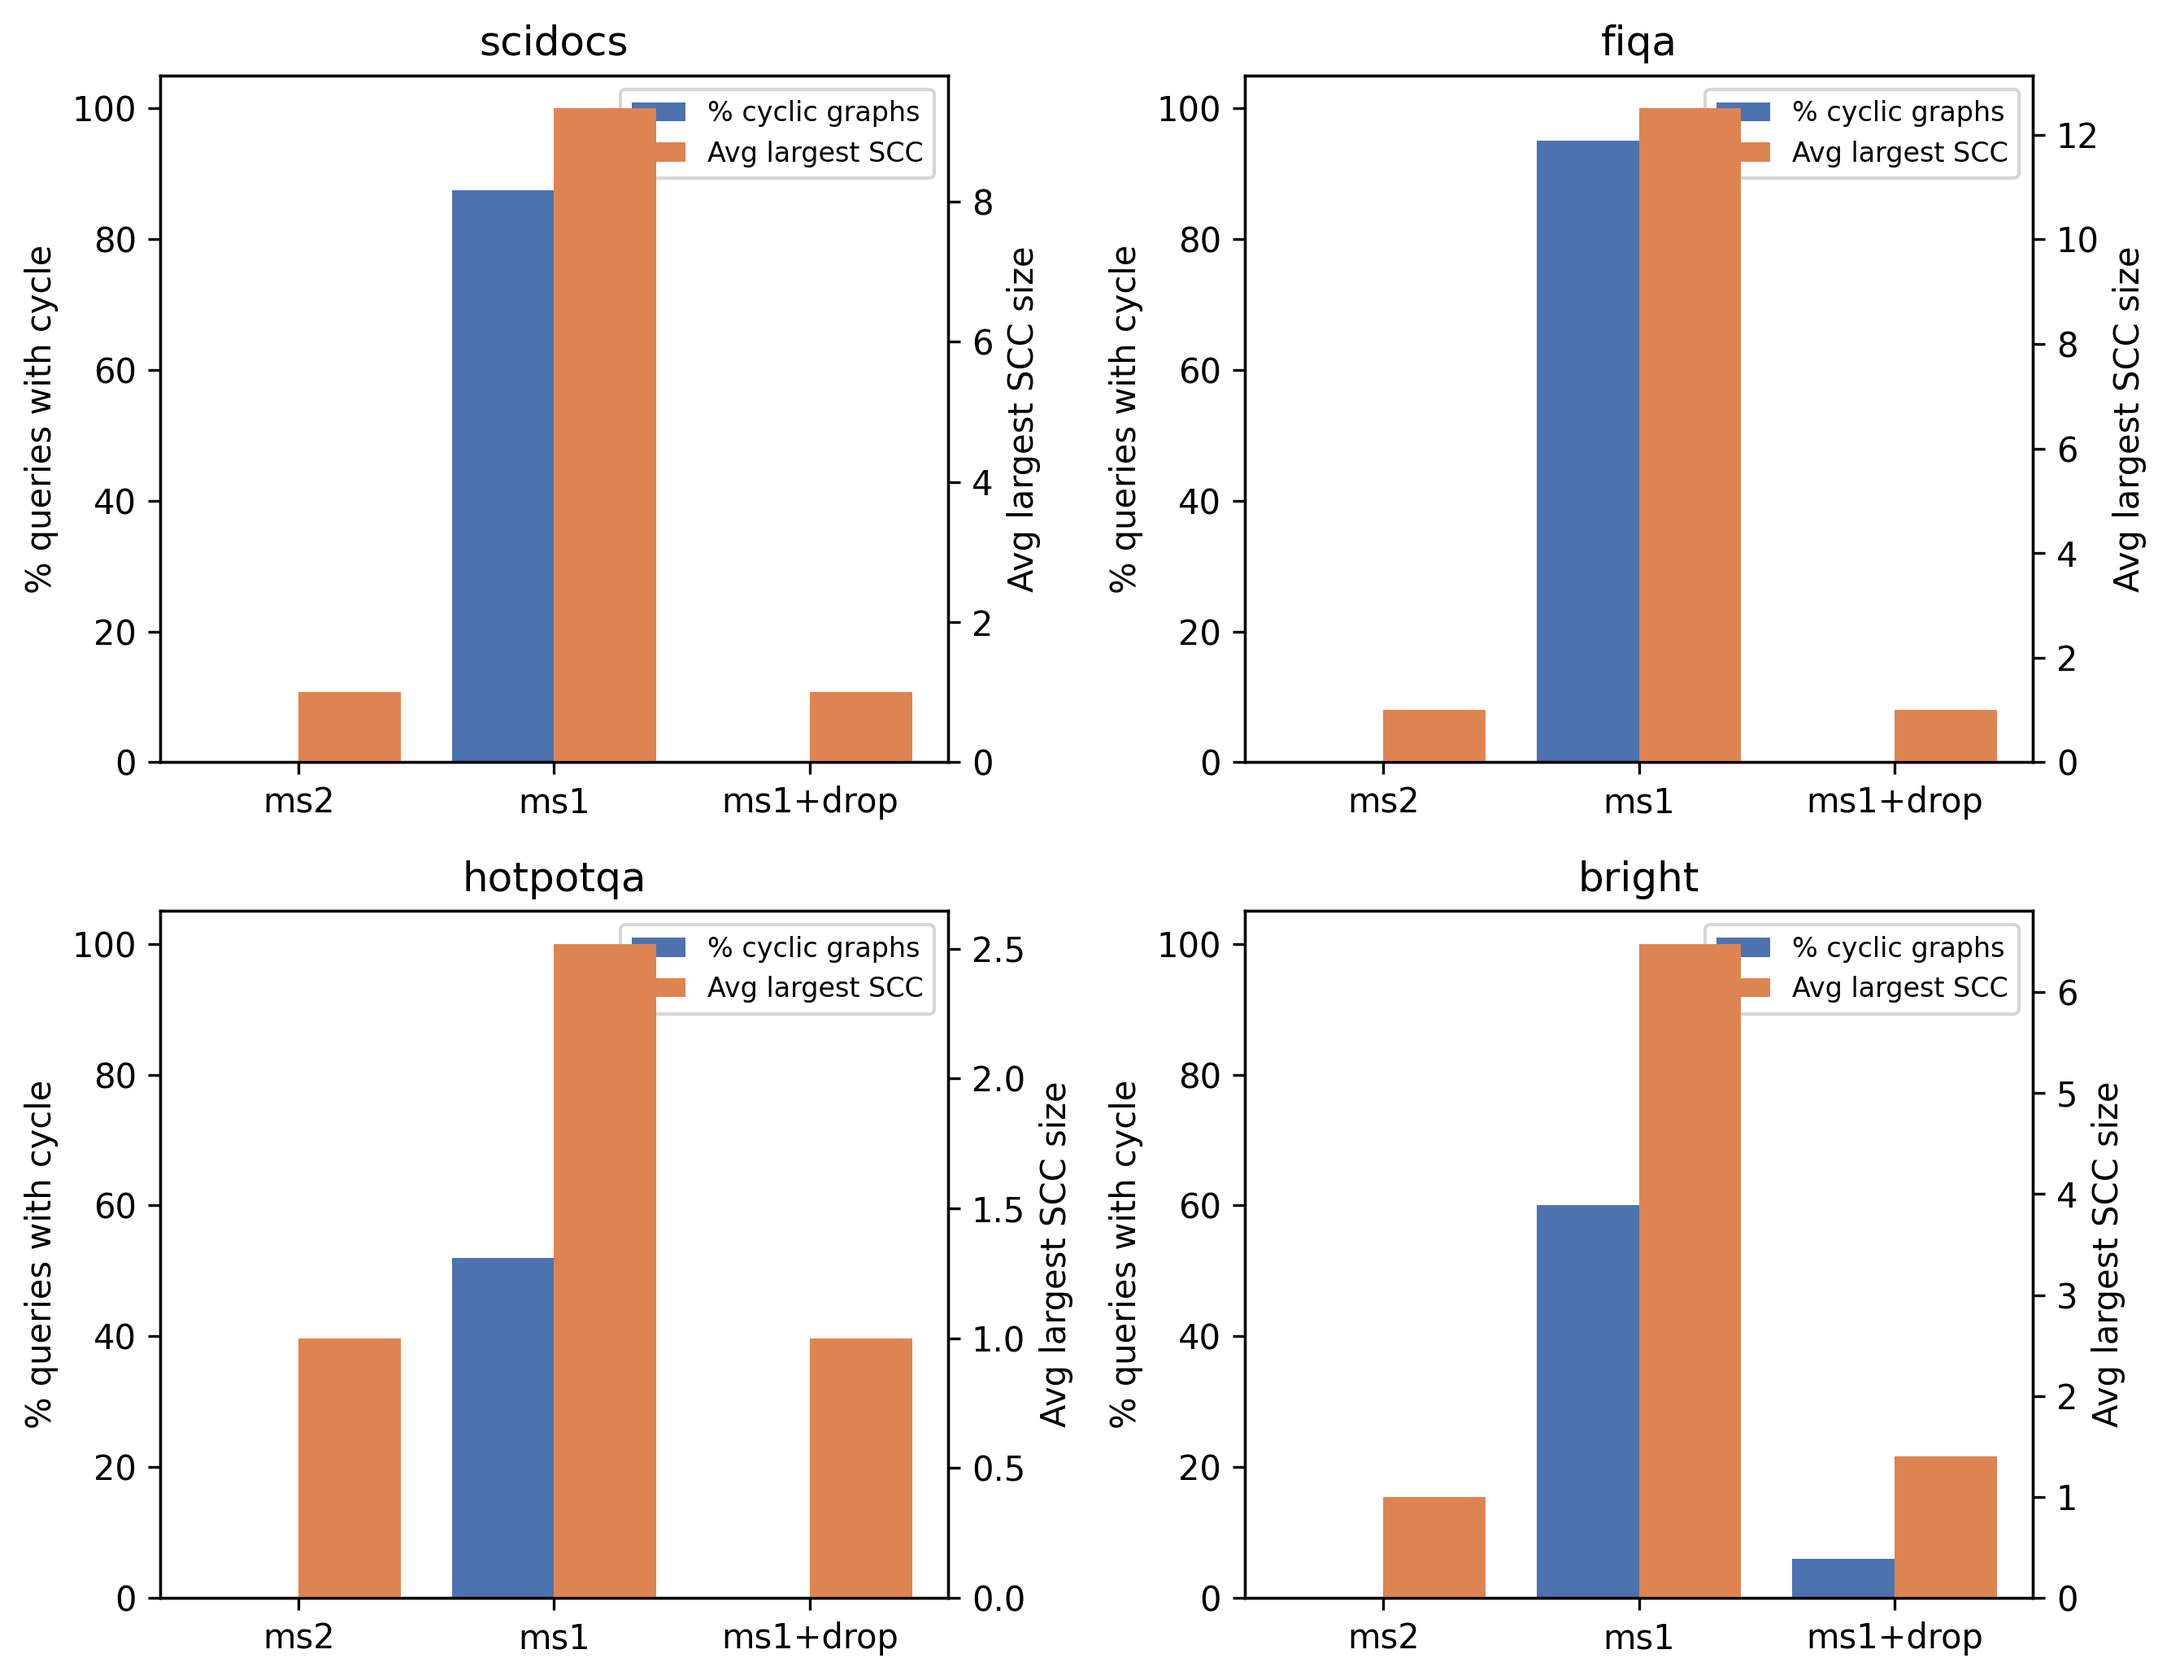
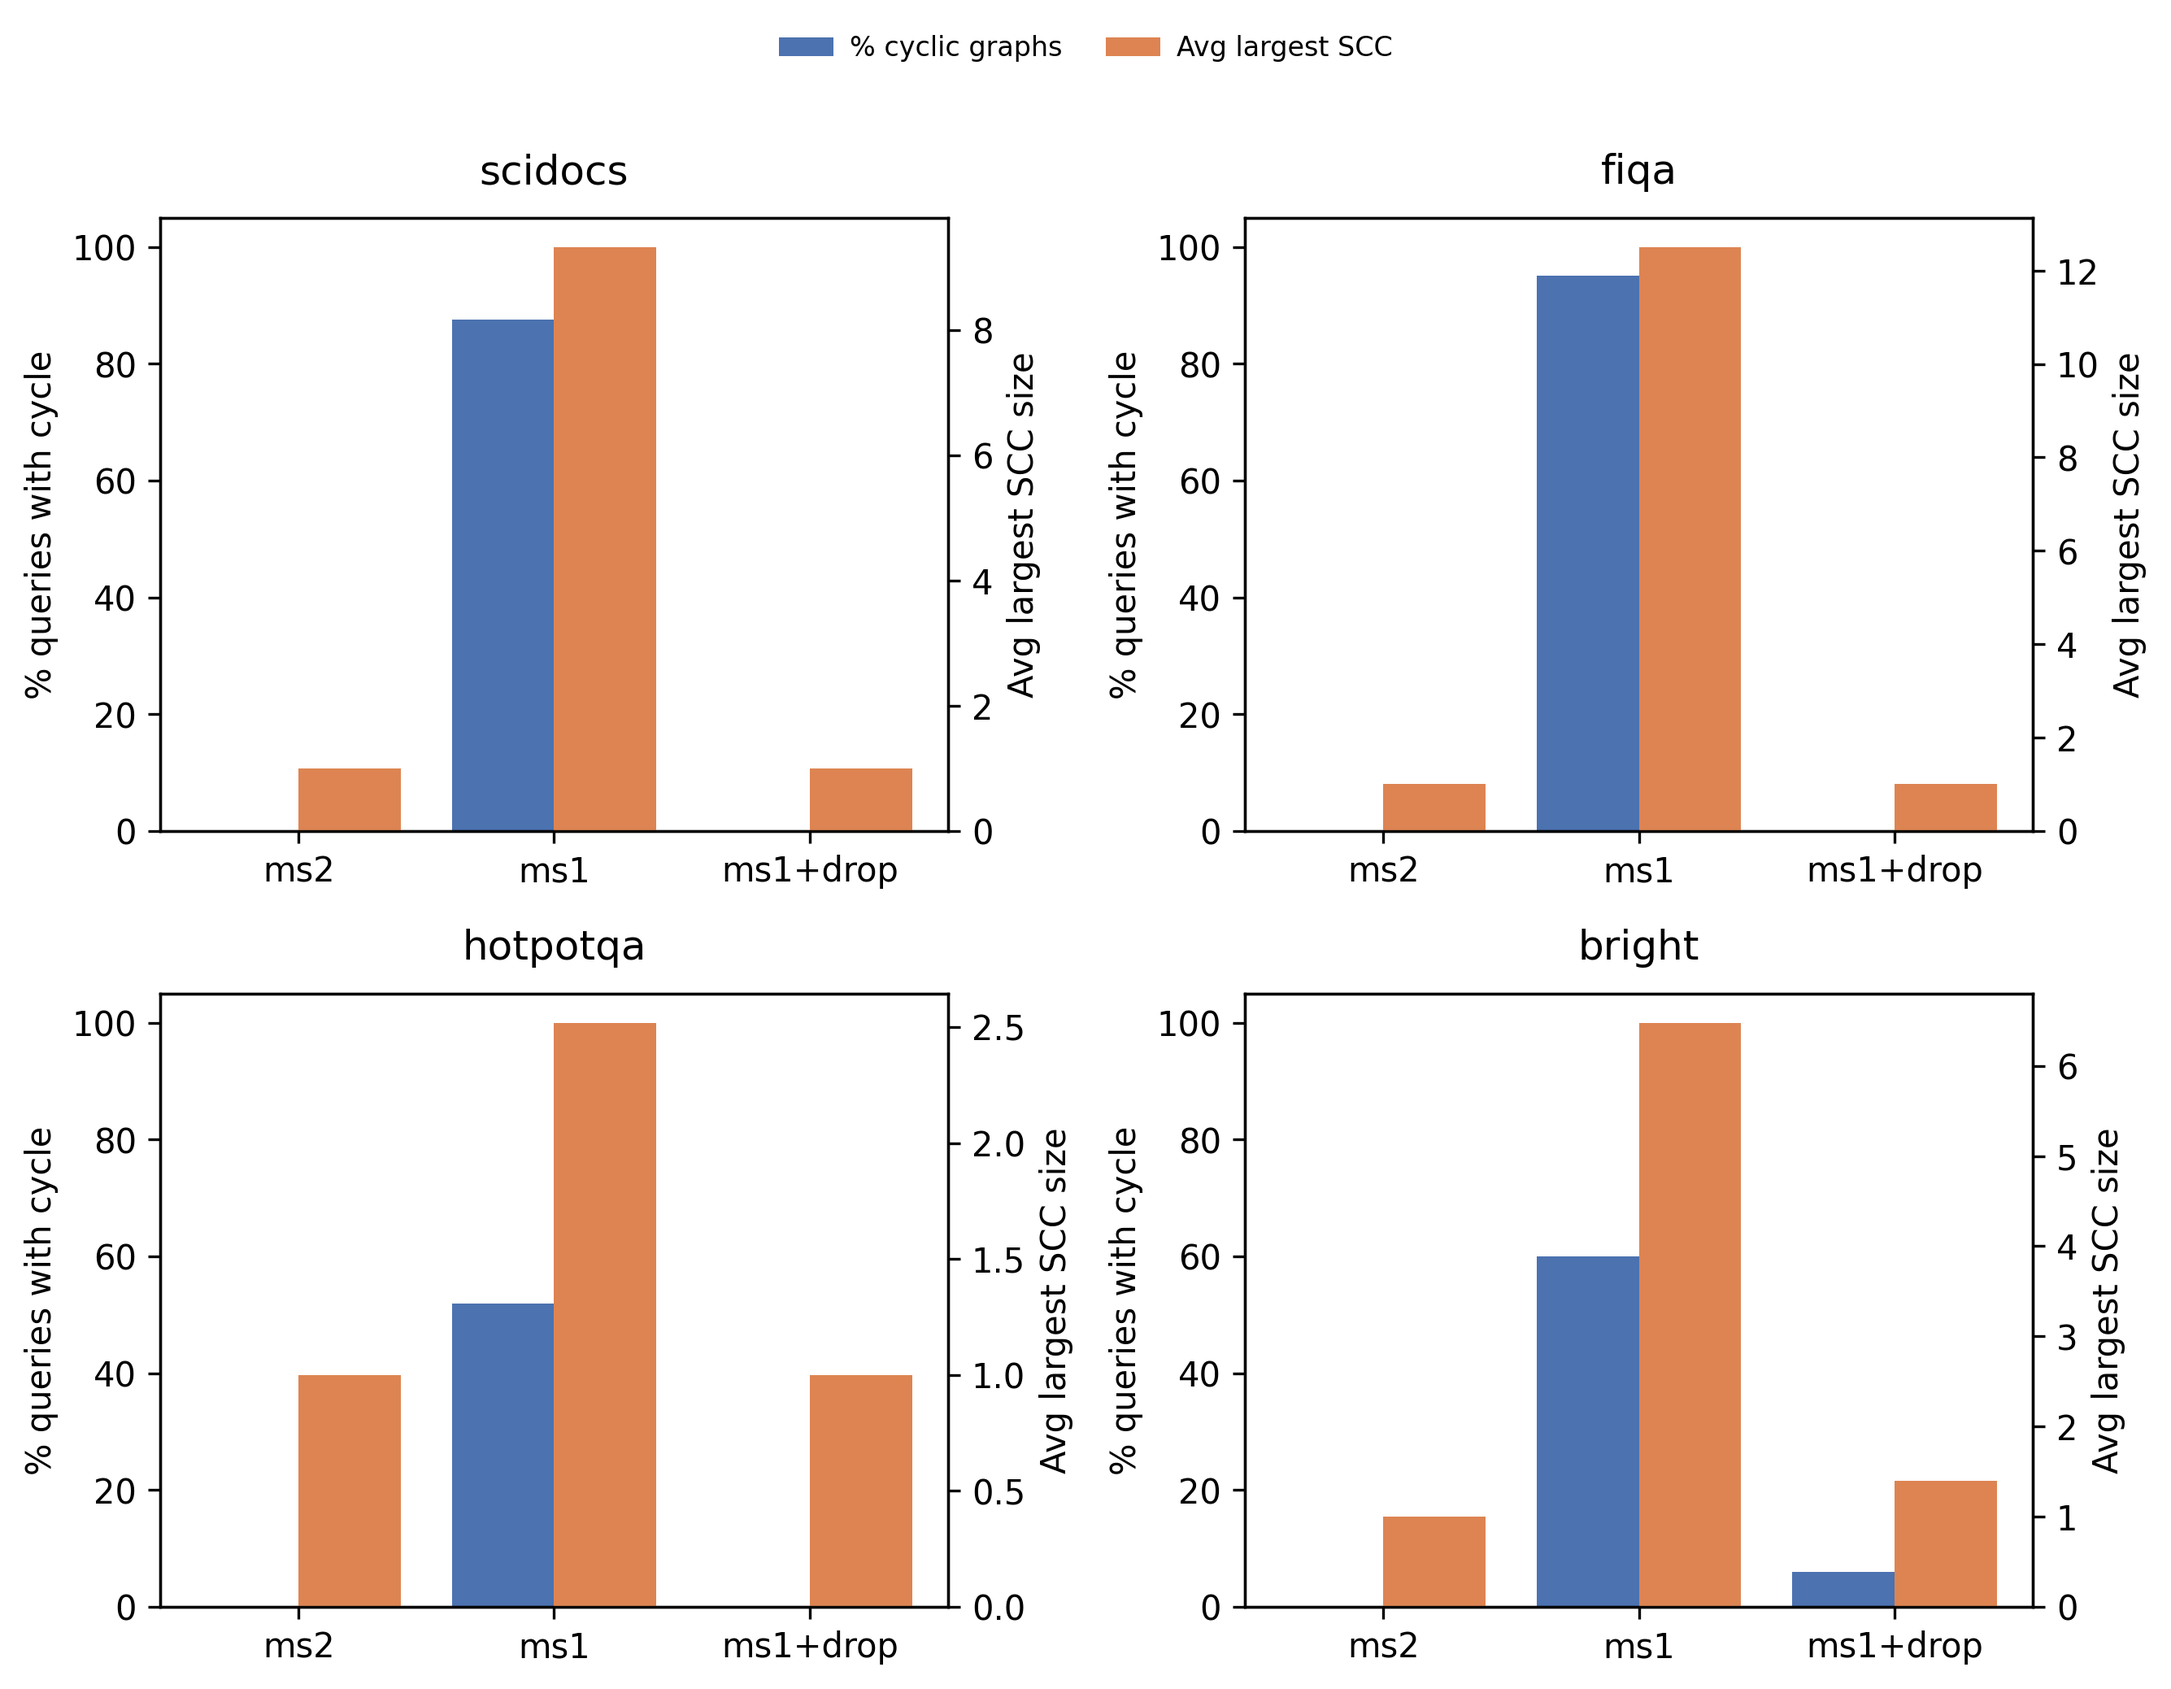
Fix cyclicity figure legend layout

diff --git a/scripts/build_manuscript_assets.py b/scripts/build_manuscript_assets.py
@@ -20,6 +20,9 @@ import matplotlib
 matplotlib.use("Agg")
 import matplotlib.pyplot as plt  # noqa: E402
 
+VARIANT_ORDER = ("ms2", "ms1", "ms1_drop_mutual")
+DATASET_ORDER = ("scidocs", "fiqa", "hotpotqa", "bright")
+
 
 def _repo_root() -> Path:
     return Path(__file__).resolve().parent.parent
@@ -33,6 +36,74 @@ def copy_plots(src_plots: Path, dst: Path) -> list[Path]:
         shutil.copy2(p, out)
         copied.append(out)
     return copied
+
+
+def plot_cyclicity_scc(table_csv: Path, out_png: Path) -> None:
+    """Bar charts: % cyclic queries and average largest SCC by vote construction."""
+    rows: list[dict[str, str]] = []
+    with table_csv.open(encoding="utf-8") as fh:
+        for row in csv.DictReader(fh):
+            if row.get("variant") in VARIANT_ORDER and row.get("dataset") in DATASET_ORDER:
+                rows.append(row)
+    if not rows:
+        raise SystemExit(f"No cyclicity rows in {table_csv}")
+
+    fig, axes = plt.subplots(2, 2, figsize=(9, 7))
+    labels = ["ms2", "ms1", "ms1+drop"]
+    x = range(3)
+    legend_handles = None
+    legend_labels = None
+
+    for ax, dataset in zip(axes.flat, DATASET_ORDER):
+        sub = [r for r in rows if r["dataset"] == dataset]
+        sub = sorted(sub, key=lambda r: VARIANT_ORDER.index(r["variant"]))
+        if len(sub) != 3:
+            ax.set_visible(False)
+            continue
+
+        pct = [float(r["pct_cyclic"]) for r in sub]
+        scc = [float(r["avg_largest_scc"]) for r in sub]
+        ax2 = ax.twinx()
+        bars1 = ax.bar(
+            [i - 0.2 for i in x],
+            pct,
+            width=0.4,
+            label="% cyclic graphs",
+            color="#4C72B0",
+        )
+        bars2 = ax2.bar(
+            [i + 0.2 for i in x],
+            scc,
+            width=0.4,
+            label="Avg largest SCC",
+            color="#DD8452",
+        )
+        ax.set_xticks(list(x))
+        ax.set_xticklabels(labels)
+        ax.set_ylabel("% queries with cycle")
+        ax2.set_ylabel("Avg largest SCC size")
+        ax.set_title(dataset, pad=10)
+        ax.set_ylim(0, max(105, max(pct) * 1.1))
+        if legend_handles is None:
+            legend_handles = [bars1[0], bars2[0]]
+            legend_labels = ["% cyclic graphs", "Avg largest SCC"]
+
+    if legend_handles and legend_labels:
+        fig.legend(
+            legend_handles,
+            legend_labels,
+            loc="upper center",
+            bbox_to_anchor=(0.5, 0.99),
+            ncol=2,
+            fontsize=8,
+            frameon=False,
+            columnspacing=1.6,
+            handletextpad=0.6,
+        )
+    fig.tight_layout(rect=[0, 0, 1, 0.93])
+    out_png.parent.mkdir(parents=True, exist_ok=True)
+    fig.savefig(out_png, dpi=300, bbox_inches="tight")
+    plt.close(fig)
 
 
 def plot_ndcg_copeland_ms1(table_csv: Path, out_png: Path) -> None:
@@ -86,6 +157,9 @@ def main() -> None:
         raise SystemExit(f"Missing {table_csv}")
 
     copied = copy_plots(src_plots, fig_manuscript) if src_plots.is_dir() else []
+    cyc = root / "figures" / "manuscript" / "fig_cyclicity_and_scc.png"
+    plot_cyclicity_scc(table_csv, cyc)
+    shutil.copy2(cyc, root / "figures" / "fig_cyclicity_and_scc.png")
     extra = root / "figures" / "manuscript" / "fig_ndcg_copeland_ms1_four_datasets.png"
     plot_ndcg_copeland_ms1(table_csv, extra)
 
